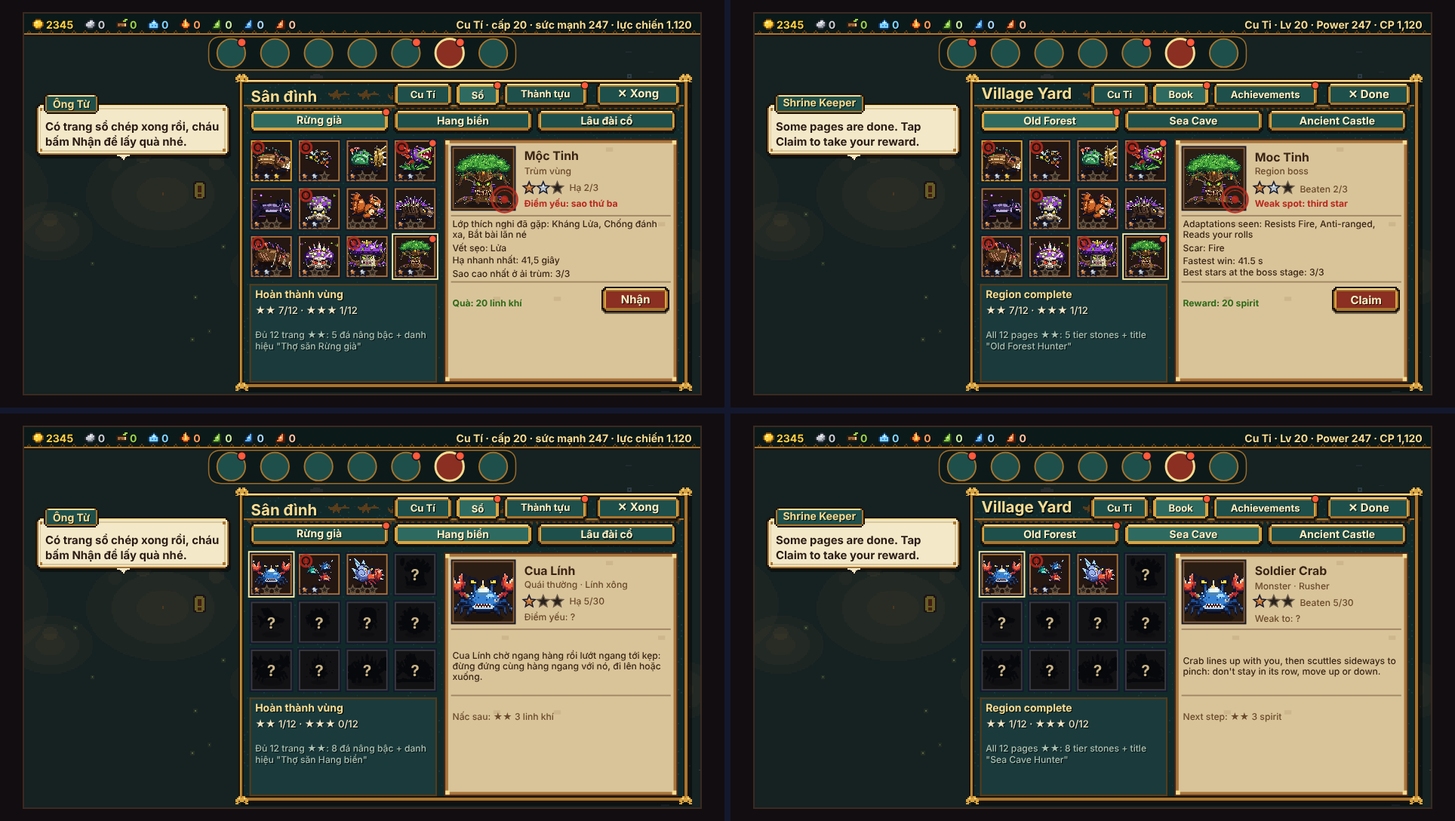
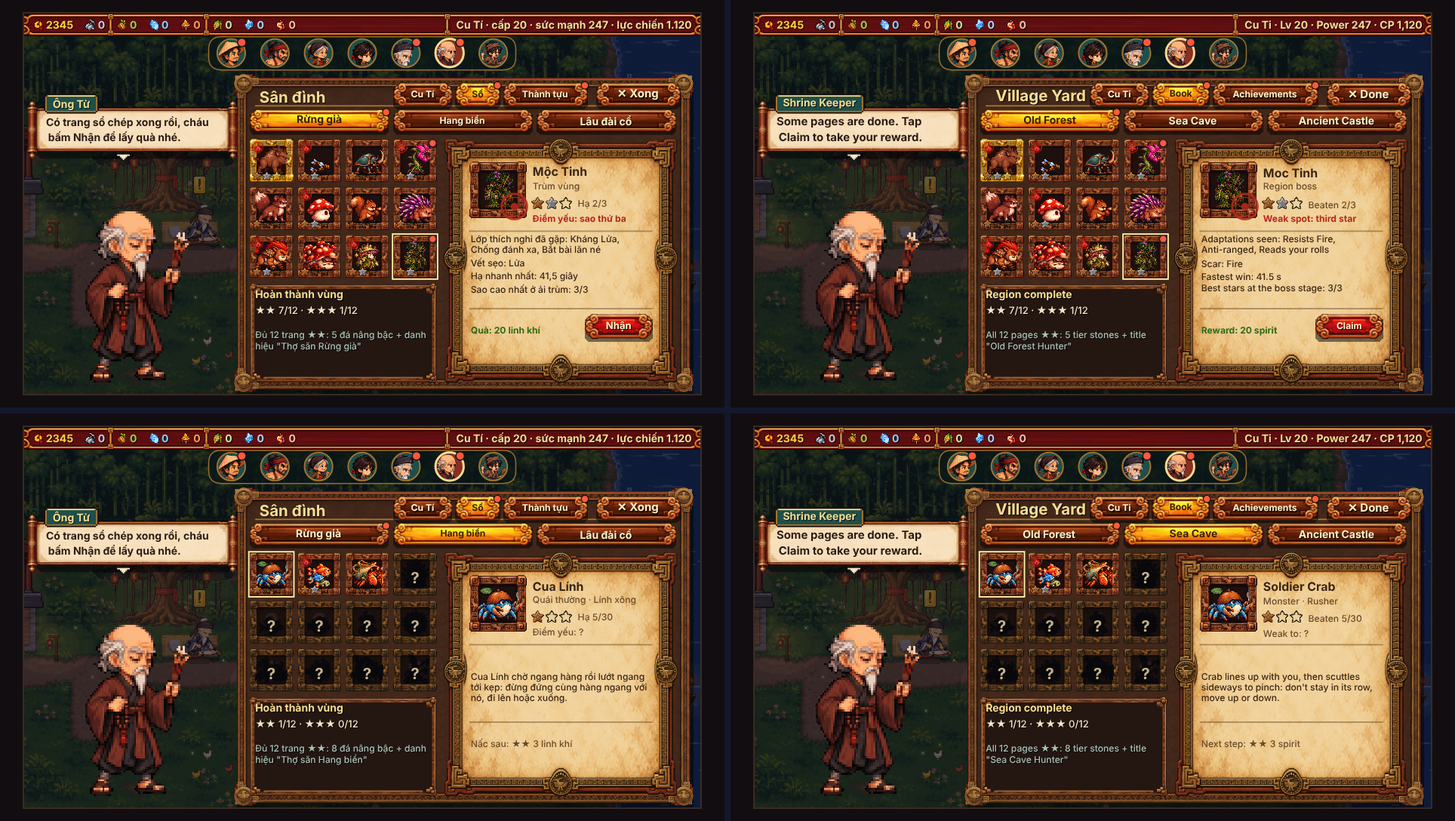
Bước 2 Phiên D: gắn ảnh vào Sổ yêu quái / Việc hôm nay / Thành tựu (chữ trong lòng khung trừ viền, chữ mực tối trên thẻ giấy, hiệu ứng Nhận / đóng dấu / mở huy hiệu); ?khunganh=0 về vẽ code; script soát mặc định mở bản đóng gói có ảnh (--nguon: mã nguồn); chụp lại xem-so / xem-viec / xem-thanh-tuu
Claude-Session: https://claude.ai/code/session_017N7QXqfkK27mirk6Hvvt7g

diff --git a/game/js/so_yeu_quai.js b/game/js/so_yeu_quai.js
@@ -309,8 +309,23 @@
   if (!VA || !VA.PANELS || !T) return;
   const CX = 160, CW = 304;
   const MUC = '#3a2414', MUC2 = '#6a4a2a', DO = '#b8281e', GOLD = '#f6dc92', TXT = '#f1e6c6', SOFT = '#a9c2b4', GOOD = '#9be07a';
-  const gd = (ma) => { const s = G.spriteCustom; return s && s.gdSan ? s.gdSan(ma) : null; };
+  // Phiên D: ảnh docs/anh-goc/buoc-2 (cat_buoc_2.py) — gd-so-trang, gd-so-o-*, gd-so-dau-*, gd-so-sao-*, hu-nhan-thuong, hu-dong-dau.
+  // ?khunganh=0 (G.KHUNG_ANH = false): bỏ ảnh, vẽ code như trước Phiên D.
+  const gd = (ma) => { const s = G.spriteCustom; return G.KHUNG_ANH !== false && s && s.gdSan ? s.gdSan(ma) : null; };
   const veGd = (ma, x, y, w, h) => { const g = gd(ma); return !!(g && G.spriteCustom.veGd(G.ux, g, x, y, w, h)); };
+  // hiệu ứng ảnh trên bảng (bấm Nhận / đóng dấu): { ma, x, y, t0, co } — vẽ mỗi khung trong panel(), hết thì bỏ
+  const FXB = { ds: [] };
+  const coHu = (ma) => G.KHUNG_ANH !== false && G.HU_MO !== false && !!(G.fxAnh && G.fxAnh.co && G.fxAnh.co(ma));
+  function phatHu(ma, x, y, co) { if (coHu(ma)) FXB.ds.push({ ma, x, y, co: co || 1, t0: G.time || 0 }); }
+  function veHu() {
+    const FA = G.fxAnh;
+    FXB.ds = FXB.ds.filter((f) => {
+      const gy = FA && FA.giay ? FA.giay(f.ma) || 0.8 : 0, t = (G.time || 0) - f.t0;
+      if (!FA || t < 0 || t >= gy) return false;
+      FA.ve(G.ux, f.ma, f.x, f.y, t, 0, f.co, false, t > gy * 0.75 ? Math.max(0, 1 - (t - gy * 0.75) / (gy * 0.25)) : 1);
+      return true;
+    });
+  }
   const chu = (s, x, y, w, h, o) => T.chuTrongKhung(s, x, y, w, h, Object.assign({ vien: [0, 0, 0, 0], dem: 1, align: 'left', size: 7, min: 6.5, bold: false, color: MUC, shadow: false }, o || {}));
   const tenLoai = (D) => (D.loai === 'thuong' ? 'Quái thường' : D.loai === 'tinhanh' ? 'Tinh anh' : D.loai === 'trumnho' ? 'Trùm nhỏ' : 'Trùm vùng');
   function vaiCua(D) {
@@ -391,7 +406,11 @@
   }
   // khung trang sổ (giấy cũ, nẹp đồng) — chờ ảnh gd-so-trang
   function veKhungTrang(x, y, w, h, vang) {
-    if (veGd('gd-so-trang', x, y, w, h)) { if (vang) { ui.rect(x + 1, y + 1, w - 2, 1, '#ffd23f'); ui.rect(x + 1, y + h - 2, w - 2, 1, '#ffd23f'); } return; }
+    const g = gd('gd-so-trang');
+    if (g && G.spriteCustom.veGd(G.ux, g, x, y, w, h)) {
+      if (vang) { const v = g.vien || [3, 3, 3, 3], c = G.ux; c.lineWidth = 1; c.strokeStyle = '#ffd23f'; c.strokeRect(x + v[3] - 0.5, y + v[0] - 0.5, w - v[1] - v[3] + 1, h - v[0] - v[2] + 1); } // ★★★: viền vàng sát mép giấy
+      return;
+    }
     const c = G.ux;
     ui.rect(x, y, w, h, '#4a2a18');
     ui.rect(x + 1, y + 1, w - 2, h - 2, vang ? '#e0a82a' : '#a8743a');
@@ -403,13 +422,15 @@
   function veO(D, x, y, s, t, chon) {
     const m = nacT(t, D), gap = !!(t && (t.g || m)), cho = choT(t, D);
     const loai = !gap ? 0 : m & 4 ? 2 : 1;
-    if (!veGd('gd-so-o-' + loai, x, y, s, s)) {
+    const anh = veGd('gd-so-o-' + loai, x, y, s, s);
+    if (!anh) {
       ui.rect(x, y, s, s, '#14182e');
       ui.rect(x + 1, y + 1, s - 2, s - 2, loai === 0 ? '#3a3a3e' : loai === 2 ? '#e0a82a' : '#a8743a');
       ui.rect(x + 2, y + 2, s - 4, s - 4, loai === 0 ? '#121214' : '#241611');
     }
-    veQuai(D.ma, x + 2, y + 1, s - 4, s - 5, !gap);
-    if (!gap) T.chuTrongKhung('?', x, y, s, s - 6, { vien: [2, 2, 2, 2], size: 11, bold: true, color: '#c8b48a' });
+    // ảnh ô: viền đồng dày ~4 điểm → hình quái vẽ trong lòng ô (dấu "?" của ảnh bị bóng đen che nên vẫn vẽ "?" bằng chữ)
+    if (anh) veQuai(D.ma, x + 4, y + 3, s - 8, s - 6, !gap); else veQuai(D.ma, x + 2, y + 1, s - 4, s - 5, !gap);
+    if (!gap) T.chuTrongKhung('?', x, y, s, s - 6, { vien: anh ? [4, 4, 0, 4] : [2, 2, 2, 2], size: 11, bold: true, color: '#c8b48a' });
     if (gap) for (let j = 0; j < 3; j++) veSao(x + 2 + j * 7, y + s - 8, 6.5, m & (1 << j) ? j + 1 : 0);
     if (gap && t && t.k && D.he) veDau(x + 6, y + 6, 4, D.he);
     if (cho) { const c = G.ux; c.beginPath(); c.arc(x + s - 3, y + 3, 2.6, 0, 7); c.fillStyle = '#ff5a3a'; c.fill(); c.lineWidth = 0.7; c.strokeStyle = '#14182e'; c.stroke(); }
@@ -465,6 +486,7 @@
     if (coNut && T.sbtn(bx + bw - 54, by + bh - 19, 50, 16, 'Nhận', { size: 8, pad: 2, primary: true })) {
       const q = Y.nhanVung(sv, V.soVung);
       if (q) {
+        phatHu('hu-nhan-thuong', bx + bw - 29, by + bh - 4, 0.7);
         G.persist(); if (G.sfx) G.sfx('evolve');
         const a = []; if (q.da) a.push(G.t('+{0} đá nâng bậc', q.da)); for (const d of q.dh) a.push(G.t('Danh hiệu mới: {0}', Y.tenDanhHieu(d)));
         V.msg = a.join(' · '); V.msgT = 3;
@@ -473,7 +495,8 @@
     }
     // trang chi tiết
     const D = BANG[V.soSel];
-    if (D) return trang(D, o.q[D.ma], sv, V);
+    if (D) { const cau = trang(D, o.q[D.ma], sv, V); veHu(); return cau; }
+    veHu();
     return 'Gặp con nào ông chép con đó vào sổ. Đánh bằng hệ khắc chế để tìm ra điểm yếu của nó.';
   }
 
@@ -481,14 +504,17 @@
     const x = CX + 4 * 31 + 3 * 3 + 5, y = 89, w = CX + CW - x, h = 262 - y; // 298..464 × 89..262
     const m = nacT(t, D), gap = !!(t && (t.g || m)), ha = !!(m & 1), cho = choT(t, D);
     veKhungTrang(x, y, w, h, !!(m & 4));
-    const ix = x + 5, iw = w - 10;
-    // chân dung
-    const px = ix, py = y + 5, ps = 46;
-    ui.rect(px, py, ps, ps, '#14182e'); ui.rect(px + 1, py + 1, ps - 2, ps - 2, m & 4 ? '#e0a82a' : '#8a5a2a'); ui.rect(px + 2, py + 2, ps - 4, ps - 4, '#2a1d14');
-    veQuai(D.ma, px + 2, py + 2, ps - 4, ps - 4, !gap);
-    if (!gap) T.chuTrongKhung('?', px, py, ps, ps, { vien: [2, 2, 2, 2], size: 16, bold: true, color: '#c8b48a' });
+    // lòng trang: ảnh gd-so-trang có "vien" = độ dày viền gỗ + nẹp đồng (cat_buoc_2.py đo) → mọi chữ / hình đặt trong lòng, không đè viền
+    const gT = gd('gd-so-trang'), vT = gT && gT.vien ? gT.vien : [5, 5, 5, 5];
+    const ix = x + vT[3], iw = w - vT[1] - vT[3], iy = y + vT[0], ir = x + w - vT[1];
+    // chân dung (ảnh ô sổ to, như ô trong lưới)
+    const px = ix, py = iy, ps = gT ? 41 : 46, loaiO = !gap ? 0 : m & 4 ? 2 : 1;
+    const oAnh = veGd('gd-so-o-' + loaiO, px, py, ps, ps);
+    if (!oAnh) { ui.rect(px, py, ps, ps, '#14182e'); ui.rect(px + 1, py + 1, ps - 2, ps - 2, m & 4 ? '#e0a82a' : '#8a5a2a'); ui.rect(px + 2, py + 2, ps - 4, ps - 4, '#2a1d14'); }
+    if (oAnh) veQuai(D.ma, px + 6, py + 5, ps - 12, ps - 10, !gap); else veQuai(D.ma, px + 2, py + 2, ps - 4, ps - 4, !gap);
+    if (!gap) T.chuTrongKhung('?', px, py, ps, ps, { vien: oAnh ? [6, 6, 6, 6] : [2, 2, 2, 2], size: 16, bold: true, color: '#c8b48a' });
     // tên, loại, sao, số lần hạ, điểm yếu
-    const tx = px + ps + 5, tw = x + w - 5 - tx;
+    const tx = px + ps + (gT ? 3 : 5), tw = ir - tx;
     chu(gap ? ten(D.ma) : '???', tx, py, tw, 13, { size: 8.5, bold: true, color: MUC });
     const vai = vaiCua(D);
     chu(gap ? (vai ? G.t('{0} · {1}', G.tv(tenLoai(D)), G.tv(vai)) : G.tv(tenLoai(D))) : 'Chưa gặp', tx, py + 13, tw, 10, { size: 6.5, color: MUC2 });
@@ -496,9 +522,9 @@
     if (gap) chu(G.t('Hạ {0}/{1}', Math.min(num(t && t.h, 0), canHa(D)), canHa(D)), tx + 32, py + 24, tw - 32, 11, { size: 6.5, color: MUC2 });
     if (D.loai === 'trum') chu(t && t.k ? 'Điểm yếu: sao thứ ba' : 'Điểm yếu: ?', tx, py + 36, tw, 10, { size: 6.5, bold: !!(t && t.k), color: t && t.k ? DO : MUC2 });
     else chu(t && t.k ? G.t('Điểm yếu: {0}', G.EL[D.he].name) : 'Điểm yếu: ?', tx, py + 36, tw, 10, { size: 6.5, bold: !!(t && t.k), color: t && t.k ? G.EL[D.he].dark : MUC2 });
-    if (t && t.k) veDau(px + ps - 8, py + ps - 8, 9, D.he || 'sao');
+    if (t && t.k) veDau(px + ps - 9, py + ps - 9, 9, D.he || 'sao');
     // thân trang: mẹo đánh (trùm vùng: lớp thích nghi, vết sẹo, kỷ lục)
-    const by = py + ps + 5, bh = 44;
+    const by = py + 46 + 5, bh = gT ? 52 : 44; // ảnh trang: lòng hẹp hơn (trừ viền) nhưng còn chỗ dưới → cho mẹo đánh thêm một dòng
     ui.rect(ix, by - 2, iw, 1, 'rgba(90,60,30,0.45)');
     if (!gap) chu(G.t('Chưa gặp con này. Đi các ải vùng {0} để tìm nó.', tenVung(D.vung)), ix, by, iw, bh, { size: 6.5, dong: 4, gian: 1.5, color: MUC2 });
     else if (!ha) chu('Hạ nó lần đầu để ông chép mẹo đánh vào sổ.', ix, by, iw, bh, { size: 6.5, dong: 4, gian: 1.5, color: MUC2 });
@@ -517,7 +543,7 @@
       ];
       chu(dong[0], ix, by, iw, 17, { size: 6.5, dong: 2, gian: 1, color: MUC });
       for (let i = 1; i < 4; i++) chu(dong[i], ix, by + 17 + (i - 1) * 9, iw, 9, { size: 6.5, color: MUC });
-    } else chu(meoCua(D), ix, by, iw, bh, { size: 6.5, dong: 5, gian: 1, color: MUC });
+    } else chu(meoCua(D), ix, by, iw, bh, { size: 6.5, dong: gT ? 6 : 5, gian: 1, color: MUC });
     // thưởng
     const qy = by + bh + 3;
     ui.rect(ix, qy - 2, iw, 1, 'rgba(90,60,30,0.45)');
@@ -533,9 +559,11 @@
       } else dongQua = 'Đã nhận đủ quà trang này.';
     }
     chu(dongQua, ix, qy, cho ? iw - 52 : iw, 22, { size: 6.5, dong: 2, gian: 1, bold: !!cho, color: cho ? '#2f6b1a' : MUC2 });
-    if (cho && T.sbtn(x + w - 54, qy + 2, 48, 18, 'Nhận', { size: 8, pad: 2, primary: true })) {
+    if (cho && T.sbtn(ir - 48, qy + 2, 48, 18, 'Nhận', { size: 8, pad: 2, primary: true })) {
       const q = Y.nhan(sv, D.ma);
       if (q) {
+        if (cho & 2 && t && t.k && D.he) phatHu('hu-dong-dau', px + ps - 9, py + ps - 3, 0.9); // nấc ★★ (tìm ra điểm yếu): con dấu đóng xuống
+        else phatHu('hu-nhan-thuong', ir - 24, qy + 18, 0.7);
         G.persist(); if (G.sfx) G.sfx('evolve');
         const a = []; if (q.vang) a.push(G.t('+{0} vàng', q.vang)); if (q.lk) a.push(G.t('+{0} linh khí', q.lk)); if (q.da) a.push(G.t('+{0} đá nâng bậc', q.da));
         V.msg = a.join(' · '); V.msgT = 2.5;

diff --git a/game/js/viec_ngay.js b/game/js/viec_ngay.js
@@ -353,8 +353,23 @@
   };
 
   // ---------- vẽ code tạm (chưa có ảnh B7..B10) ----------
-  const gd = (ma) => { const s = G.spriteCustom; return s && s.gdSan ? s.gdSan(ma) : null; };
+  // Phiên D: ảnh docs/anh-goc/buoc-2 (cat_buoc_2.py) — gd-the-viec(-xong), gd-icon-viec-*, gd-ruong-ngay(-mo), gd-o-tuan(-dau), hu-nhan-thuong.
+  // ?khunganh=0 (G.KHUNG_ANH = false): bỏ ảnh, vẽ code như trước Phiên D.
+  const gd = (ma) => { const s = G.spriteCustom; return G.KHUNG_ANH !== false && s && s.gdSan ? s.gdSan(ma) : null; };
   const veGd = (ma, x, y, w, h) => { const g = gd(ma); return !!(g && G.spriteCustom.veGd(G.ux, g, x, y, w, h)); };
+  const FXB = { ds: [] }; // hiệu ứng ảnh hu-nhan-thuong khi bấm Nhận / mở rương (không có ảnh thì thôi, như trước)
+  function phatHu(x, y, co) { const FA = G.fxAnh; if (G.KHUNG_ANH !== false && G.HU_MO !== false && FA && FA.co && FA.co('hu-nhan-thuong')) FXB.ds.push({ x, y, co: co || 0.7, t0: G.time || 0 }); }
+  function veHu() {
+    const FA = G.fxAnh;
+    FXB.ds = FXB.ds.filter((f) => {
+      const gy = FA && FA.giay ? FA.giay('hu-nhan-thuong') || 0.8 : 0, t = (G.time || 0) - f.t0;
+      if (!FA || t < 0 || t >= gy) return false;
+      FA.ve(G.ux, 'hu-nhan-thuong', f.x, f.y, t, 0, f.co, false, t > gy * 0.75 ? Math.max(0, 1 - (t - gy * 0.75) / (gy * 0.25)) : 1);
+      return true;
+    });
+  }
+  // chữ trên thẻ ảnh (giấy sáng): mực tối thay cho chữ sáng của ô vẽ code
+  const MUC_THE = { TXT: '#3a2414', SOFT: '#6a4a2a', GOOD: '#2f6b1a' };
   const MAU_ICON = ['#c8463a', '#9a48d4', '#3a9a6a', '#e0b04a', '#c86a6a', '#5ab0d0', '#ff8a3a', '#7ad0c0', '#6a8ae0', '#d0902a', '#8a9aa8', '#50c8e8'];
   function veIcon(i, x, y, s) {
     if (veGd('gd-icon-viec-' + i, x, y, s, s)) return;
@@ -400,18 +415,29 @@
   const CX = 160, CW = 304;
   function veThe(v, i, x, y, w, h, o) {
     const T = G.theme, xong = xongViec(v), sv = G.save, t = MAU[v.m] || { icon: 0 };
-    if (!veGd(xong ? 'gd-the-viec-xong' : 'gd-the-viec', x, y, w, h)) T.inset(x, y, w, h, xong && !v.nhan);
-    veIcon(t.icon | 0, x + 5, y + 6, 22);
-    const bw = w - 31 - 66; // phần chữ (trừ cột nút bên phải)
-    chu(VN.chu(v), x, y, w, h, { vung: [x + 31, y + 2, bw, 15], size: 8, color: v.nhan ? SOFT : TXT });
-    T.bar(x + 31, y + 19, 104, 'xp', v.can ? v.d / v.can : 0, G.t('{0}/{1}', v.d, v.can), { h: 10, col: xong ? '#5ab04a' : '#c89a3a', marks: 4 });
-    chu(G.t('{0} · {1}', G.tv(MUC[G.clamp(v.o | 0, 0, 2)]), VN.chuThuong(thuongViec(v, sv))), x, y, w, h, { vung: [x + 139, y + 18, bw - 108, 13], size: 6.5, bold: false, color: SOFT });
-    const bx = x + w - 62;
-    if (v.nhan) chu('Đã nhận', x, y, w, h, { vung: [bx, y + 8, 56, 18], align: 'center', size: 7.5, color: GOOD });
+    const ma = xong ? 'gd-the-viec-xong' : 'gd-the-viec', g = gd(ma), anh = !!(g && G.spriteCustom.veGd(G.ux, g, x, y, w, h));
+    if (!anh) T.inset(x, y, w, h, xong && !v.nhan);
+    // Ảnh thẻ: nắp đồng hai đầu (vien trái / phải của ảnh). Thẻ "xong" có dấu đỏ ✓ ở đầu phải: nút Nhận che dấu, nhận xong thì dấu hiện ra
+    // (thay cho chữ "Đã nhận" ở cột nút) → chữ, thanh, nút đặt trong lòng giấy, không đè nắp / dấu. Chữ mực tối trên giấy sáng.
+    const M = anh ? MUC_THE : { TXT, SOFT, GOOD };
+    let ix, lx, bx, tw, barW = 104, nhanO = null;
+    if (!anh) { ix = x + 5; lx = x + 31; bx = x + w - 62; tw = w - 31 - 66; }
+    else {
+      const vl = g.vien ? g.vien[3] : 18, vr = g.vien ? g.vien[1] : 18, g0 = gd('gd-the-viec'), vr0 = g0 && g0.vien ? g0.vien[1] : 20;
+      ix = x + vl - 3; lx = ix + 24; bx = x + w - vr0 - 56; barW = 84;
+      tw = (v.nhan ? x + w - vr - 2 : bx - 2) - lx;
+      if (v.nhan) nhanO = [lx + barW + 4, y + 18, x + w - vr - 2 - (lx + barW + 4), 13];
+    }
+    veIcon(t.icon | 0, ix, y + 6, 22);
+    chu(VN.chu(v), x, y, w, h, { vung: [lx, y + (anh ? 4 : 2), tw, anh ? 14 : 15], size: 8, color: v.nhan ? M.SOFT : M.TXT });
+    T.bar(lx, y + 19, barW, 'xp', v.can ? v.d / v.can : 0, G.t('{0}/{1}', v.d, v.can), { h: 10, col: xong ? '#5ab04a' : '#c89a3a', marks: 4 });
+    if (nhanO) chu('Đã nhận', x, y, w, h, { vung: nhanO, size: 7.5, color: M.GOOD });
+    else chu(G.t('{0} · {1}', G.tv(MUC[G.clamp(v.o | 0, 0, 2)]), VN.chuThuong(thuongViec(v, sv))), x, y, w, h, { vung: [lx + barW + 4, y + 18, (anh ? bx - 2 : lx + tw) - (lx + barW + 4), 13], size: 6.5, bold: false, color: M.SOFT });
+    if (v.nhan) { if (!anh) chu('Đã nhận', x, y, w, h, { vung: [bx, y + 8, 56, 18], align: 'center', size: 7.5, color: M.GOOD }); }
     else if (xong) {
       if (T.btn(bx, y + 6, 56, 22, 'Nhận', { primary: true, size: 8.5 })) {
         const q = VN.nhan(i, sv);
-        if (q) { G.persist(); G.sfx('pick'); G.villageApi.say('+' + VN.chuThuong(q)); }
+        if (q) { G.persist(); G.sfx('pick'); G.villageApi.say('+' + VN.chuThuong(q)); phatHu(bx + 28, y + 30, 0.6); }
       }
     } else if (VN.duocDoi(o, i)) {
       const hoi = hoiDoi === i && G.time - hoiDoiT < 4;
@@ -445,7 +471,7 @@
     const nx = soXong(o);
     if (T.btn(rx + 6, ry + 40, 136, 24, o.ruong ? 'Đã mở hôm nay' : VN.coRuong(o) ? 'Mở rương' : G.t('Còn {0} việc', o.ds.length - nx), { size: 8, primary: VN.coRuong(o), disabled: !VN.coRuong(o) })) {
       const q = VN.moRuong(sv);
-      if (q) { G.persist(); G.sfx('evolve'); VA.say('+' + VN.chuThuong(q)); }
+      if (q) { G.persist(); G.sfx('evolve'); VA.say('+' + VN.chuThuong(q)); phatHu(rx + 22, ry + 34, 0.8); }
     }
     // dải tuần
     const tx = CX + 152, tw = CW - 152;
@@ -460,8 +486,9 @@
     const rt = CF.ruongTuan[muc];
     if (T.btn(tx + 4, ry + 44, tw - 8, 20, o.tuanNhan ? 'Đã mở rương tuần' : VN.coTuan(o) ? 'Mở rương tuần' : G.t('Rương tuần: {0}', VN.chuThuong(rt)), { size: 7, primary: VN.coTuan(o), disabled: !VN.coTuan(o) })) {
       const q = VN.moTuan(sv);
-      if (q) { G.persist(); G.sfx('evolve'); VA.say('+' + VN.chuThuong(q)); }
+      if (q) { G.persist(); G.sfx('evolve'); VA.say('+' + VN.chuThuong(q)); phatHu(tx + tw / 2, ry + 62, 0.8); }
     }
+    veHu();
     if (o.ds.some((v) => xongViec(v) && !v.nhan)) return 'Xong việc rồi! Bấm Nhận đi cháu.';
     if (VN.coRuong(o)) return 'Đủ 3 việc rồi, mở rương ngày đi!';
     if (VN.coTuan(o)) return 'Đủ ngày rồi, mở rương tuần đi!';

diff --git a/game/js/thanh_tuu.js b/game/js/thanh_tuu.js
@@ -256,7 +256,9 @@
 
   // ---------- vẽ (code tạm, chờ ảnh B11 / B12 / B13 / B17) ----------
   const ui = G.ui, T = G.theme;
-  const gd = (ma) => { const s = G.spriteCustom; return s && s.gdSan ? s.gdSan(ma) : null; };
+  // Phiên D: ảnh docs/anh-goc/buoc-2 (cat_buoc_2.py) — gd-huy-khung-*, gd-huy-hinh-*, gd-danh-hieu-*, hu-huy-hieu.
+  // ?khunganh=0 (G.KHUNG_ANH = false): bỏ ảnh, vẽ code như trước Phiên D.
+  const gd = (ma) => { const s = G.spriteCustom; return G.KHUNG_ANH !== false && s && s.gdSan ? s.gdSan(ma) : null; };
   const veGd = (ma, x, y, w, h) => { const g = gd(ma); return !!(g && G.spriteCustom.veGd(G.ux, g, x, y, w, h)); };
   const SOFT = '#a9c2b4', TXT = '#f1e6c6', GOLD = '#f6dc92', GOOD = '#9be07a', INK = '#14182e';
   function rect(c, x, y, w, h, col) { c.fillStyle = col; c.fillRect(x, y, w, h); }
@@ -307,7 +309,8 @@
   function veHuy(a, cx, cy, r, st, chon) {
     const c = G.ux, C = D.CAP[a.cap] || D.CAP.dong, khoa = st === 0, t = G.time || 0;
     if (chon) { c.save(); c.globalAlpha = 0.5 + 0.3 * Math.sin(t * 5); c.beginPath(); c.arc(cx, cy, r + 2.5, 0, 7); c.fillStyle = GOLD; c.fill(); c.restore(); }
-    if (!veGd('gd-huy-khung-' + (khoa ? 'khoa' : a.cap), cx - r, cy - r, r * 2, r * 2)) {
+    const anh = veGd('gd-huy-khung-' + (khoa ? 'khoa' : a.cap), cx - r, cy - r, r * 2, r * 2);
+    if (!anh) {
       c.beginPath(); c.arc(cx, cy, r, 0, 7); c.fillStyle = INK; c.fill();
       c.beginPath(); c.arc(cx, cy, r - 1, 0, 7); c.fillStyle = khoa ? '#4a4e56' : C.toi; c.fill();
       c.beginPath(); c.arc(cx, cy, r - 2, 0, 7); c.fillStyle = khoa ? '#7a7e86' : C.mau; c.fill();
@@ -316,6 +319,7 @@
       for (let i = 0; i < 12; i++) { const g = (i / 12) * Math.PI * 2; c.fillRect(Math.round(cx + Math.cos(g) * (r - 2.5) - 0.5), Math.round(cy + Math.sin(g) * (r - 2.5) - 0.5), 1, 1); }
       c.beginPath(); c.arc(cx, cy, r - 4, 0, 7); c.fillStyle = khoa ? '#24282e' : '#2a1a12'; c.fill();
     }
+    if (khoa && anh) return; // ảnh khung khoá đã có ổ khoá giữa lòng
     if (khoa) {
       veHinh(a.hinh, cx, cy, Math.round(r * 1.05), 'rgba(150,156,166,0.35)');
       // ổ khoá nhỏ góc dưới phải
@@ -324,7 +328,7 @@
       rect(c, lx, ly, 5, 4, '#c8ccd4'); rect(c, lx + 2, ly + 1, 1, 2, INK);
       return;
     }
-    veHinh(a.hinh, cx, cy, Math.round(r * 1.05), st === 2 ? GOLD : C.mau, 'rgba(0,0,0,0.55)');
+    veHinh(a.hinh, cx, cy, anh ? Math.round(r * 0.95) : Math.round(r * 1.05), st === 2 ? GOLD : C.mau, 'rgba(0,0,0,0.55)'); // ảnh khung: hình nằm trong lòng tối (≈ 0,55 bán kính)
     if (st === 1) { // đã đạt, chờ nhận: lấp lánh + chấm đỏ
       const k = (t * 1.6 + cx * 0.07) % 1;
       c.save(); c.globalAlpha = 1 - k; c.strokeStyle = '#fff2b0'; c.lineWidth = 1; c.beginPath(); c.arc(cx, cy, r + k * 4, 0, 7); c.stroke(); c.restore();
@@ -333,11 +337,19 @@
   }
   TT.veHuy = veHuy;
   // Dải băng danh hiệu (ảnh B13 gd-danh-hieu-<cap> khi có), chữ trong lòng băng bằng T.chuTrongKhung
+  // Ảnh băng cao 16: vẽ theo đúng tỉ lệ (băng thấp hơn thì thu cả hình, đuôi không bị bóp dẹt) → đuôi rộng vien * h / 16.
+  const duoiAnh = (cap, h) => { const g = D.CAP[cap] ? gd('gd-danh-hieu-' + cap) : null; return g ? Math.ceil(((g.vien ? g.vien[1] : 20) * h) / (g.cao || 16)) : 0; };
+  TT.duoiAnh = duoiAnh;
   function veDai(x, y, w, h, ten, cap, o) {
     o = o || {};
-    const c = G.ux, C = D.CAP[cap] || null;
-    const anh = C && veGd('gd-danh-hieu-' + cap, x, y, w, h);
-    const duoi = Math.min(6, Math.floor(h / 2));
+    const c = G.ux, C = D.CAP[cap] || null, g = C ? gd('gd-danh-hieu-' + cap) : null;
+    let anh = false;
+    if (g) {
+      const k = h / (g.cao || 16);
+      c.save(); c.translate(x, y); c.scale(k, k);
+      try { anh = G.spriteCustom.veGd(c, g, 0, 0, w / k, h / k); } finally { c.restore(); }
+    }
+    const duoi = anh ? duoiAnh(cap, h) : Math.min(6, Math.floor(h / 2));
     if (!anh) {
       const m = C ? C.mau : '#6a6e76', d = C ? C.toi : '#3a3e46';
       // hai đuôi gấp
@@ -352,14 +364,20 @@
       rect(c, x + duoi, y + h - 2, w - duoi * 2, 1, d);
       for (let i = x + duoi + 2; i < x + w - duoi - 2; i += 4) rect(c, i, y + 2, 2, 1, d); // hoa văn chữ 回 tối giản
     }
-    if (ten) T.chuTrongKhung(ten, x, y, w, h, { vien: [2, duoi + 1, 2, duoi + 1], size: o.size || 7.5, min: 6, bold: true, color: C ? '#2a1606' : '#d8dce4', shadow: false });
+    if (ten) T.chuTrongKhung(ten, x, y, w, h, { vien: anh ? [Math.round(h * 0.18), duoi, Math.round(h * 0.22), duoi] : [2, duoi + 1, 2, duoi + 1], dem: anh ? 0.5 : undefined, size: o.size || 7.5, min: 6, bold: true, color: C ? '#2a1606' : '#d8dce4', shadow: false });
   }
   TT.veDai = veDai;
   // Hiệu ứng bấm Nhận (B15 hu-nhan-thuong / B17 hu-huy-hieu khi có ảnh): tia vàng + mảnh lấp lánh toả ra, 0,7 giây
   const U = { fx: null };
   function veFx() {
     const f = U.fx; if (!f) return;
-    const a = (G.time || 0) - f.t0;
+    const a = (G.time || 0) - f.t0, FA = G.fxAnh;
+    if (G.KHUNG_ANH !== false && G.HU_MO !== false && FA && FA.co && FA.co('hu-huy-hieu')) { // ảnh B17: huy hiệu xoay, vòng sáng chim Lạc
+      const gy = FA.giay('hu-huy-hieu') || 0.8;
+      if (a < 0 || a >= gy) { U.fx = null; return; }
+      FA.ve(G.ux, 'hu-huy-hieu', f.x, f.y, a, 0, 0.75, false, a > gy * 0.75 ? Math.max(0, 1 - (a - gy * 0.75) / (gy * 0.25)) : 1);
+      return;
+    }
     if (a > 0.7 || a < 0) { U.fx = null; return; }
     const c = G.ux, k = a / 0.7;
     c.save();
@@ -480,7 +498,7 @@
           const dd = TT.dangDeo(), S = VS.state;
           if (dd && S && !(S.bubble && !S.bubble.who)) {
             ui.font(6.5, true);
-            const tw = Math.ceil(G.ux.measureText(G.tv(dd.ten)).width) + 16, hx = Math.round(S.x - S.cam), hy = Math.round(S.y + (VS.OY || 0) - 39);
+            const tw = Math.ceil(G.ux.measureText(G.tv(dd.ten)).width) + Math.max(16, 2 * duoiAnh(dd.cap, 12) + 4), hx = Math.round(S.x - S.cam), hy = Math.round(S.y + (VS.OY || 0) - 39);
             veDai(Math.round(hx - tw / 2), hy - 1, tw, 12, dd.ten, dd.cap, { size: 6.5 });
           }
         }

diff --git a/game/tests/so_yeu_quai_shots.py b/game/tests/so_yeu_quai_shots.py
@@ -3,7 +3,9 @@
   hàng trên: Rừng già, trang Mộc Tinh (đã tìm điểm yếu, quà chờ nhận) — VI | EN
   hàng dưới: Hang biển, trang Cua Lính (đã hạ, chưa điểm yếu) cạnh các ô chưa gặp — VI | EN
 
-  python3 game/tests/so_yeu_quai_shots.py [--out docs/ke-hoach/buoc-2/xem-so.png] [--q soyq=0]
+  python3 game/tests/so_yeu_quai_shots.py [--out docs/ke-hoach/buoc-2/xem-so.png] [--q soyq=0] [--nguon]
+Phiên D (ảnh): mặc định mở bản đóng gói game/dist/linh-khi.html (có ảnh nhúng: chạy python3 game/build.py trước);
+--nguon: mở game/index.html (mã nguồn, không có ảnh → hình vẽ code). --q khunganh=0: bản đóng gói nhưng tắt ảnh khung Bước 2.
 """
 import os, sys
 from playwright.sync_api import sync_playwright
@@ -20,6 +22,7 @@ def arg(name, d=None):
 
 OUT = arg('--out', os.path.join(REPO, 'docs', 'ke-hoach', 'buoc-2', 'xem-so.png'))
 Q = arg('--q', '')
+TRANG = ROOT + '/index.html' if '--nguon' in sys.argv or not os.path.exists(ROOT + '/dist/linh-khi.html') else ROOT + '/dist/linh-khi.html'
 
 INIT = r"""
 window.requestAnimationFrame = function () { return 0; };
@@ -70,7 +73,7 @@ def main():
         pg.on('pageerror', lambda e: errs.append('PAGEERROR ' + str(e)))
         pg.on('console', lambda m: errs.append(m.text) if m.type == 'error' and 'ERR_' not in m.text and 'net::' not in m.text else None)
         pg.add_init_script(INIT)
-        pg.goto('file://' + ROOT + '/index.html?cloud=0' + ('&' + Q if Q else ''))
+        pg.goto('file://' + TRANG + '?cloud=0' + ('&' + Q if Q else ''))
         pg.wait_for_function('window.G && G.scene', timeout=20000)
         pg.add_script_tag(path=os.path.join(HERE, 'setup.js'))
         pg.wait_for_timeout(2500)  # ảnh AI (dữ liệu nhúng) giải mã xong

diff --git a/game/tests/viec_ngay_shots.py b/game/tests/viec_ngay_shots.py
@@ -1,6 +1,8 @@
 """Ảnh soát tĩnh Bước 2 Phiên B "Việc hôm nay" (không chơi thử): chụp thẻ Việc hôm nay ở Anh Mõ và bảng xem trong Tạm dừng, tiếng Việt + tiếng Anh,
 ghép thành docs/ke-hoach/buoc-2/xem-viec.png (khung game 480x270, mỗi ô phóng 2 lần).
-Chạy từ thư mục game: python3 tests/viec_ngay_shots.py (cần Playwright + Chromium + Pillow). Thoát mã 1 nếu trang có lỗi."""
+Chạy từ thư mục game: python3 tests/viec_ngay_shots.py (cần Playwright + Chromium + Pillow). Thoát mã 1 nếu trang có lỗi.
+Phiên D (ảnh): mặc định mở bản đóng gói dist/linh-khi.html (có ảnh nhúng: chạy python3 game/build.py trước); --nguon: mở index.html (không ảnh);
+--q khunganh=0: thêm tham số vào địa chỉ (tắt ảnh khung Bước 2)."""
 import os, sys, io
 sys.path.insert(0, os.path.dirname(os.path.abspath(__file__)))
 from playwright.sync_api import sync_playwright
@@ -20,7 +22,9 @@ SAVE = """(() => { G.resetSave(); const s = G.save; s.sound = false; s.heroes[s.
 def main():
     errs, anh = [], []
     with sync_playwright() as p:
-        g = Game(p, 'soat')
+        trang = ROOT + '/index.html' if '--nguon' in sys.argv or not os.path.exists(ROOT + '/dist/linh-khi.html') else ROOT + '/dist/linh-khi.html'
+        q = sys.argv[sys.argv.index('--q') + 1] if '--q' in sys.argv else ''
+        g = Game(p, 'soat', url='file://' + trang + ('?cloud=0&' + q if q else ('?cloud=0' if trang.endswith('linh-khi.html') else '')))
         g.touch = False
         g.pg.on('pageerror', lambda e: errs.append(str(e)))
         ev = g.ev
